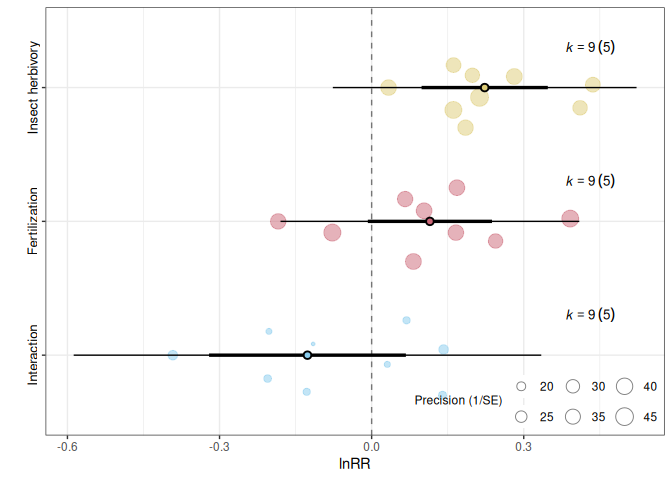
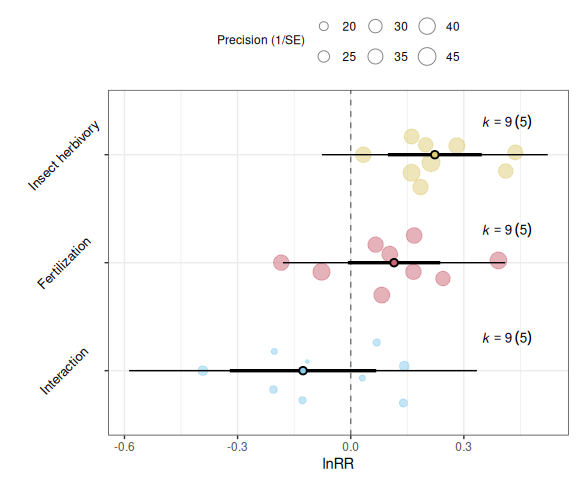
Build README

diff --git a/README.md b/README.md
@@ -176,7 +176,9 @@ The output from `factorial_mod_results` follows the format used by
 orchaRd::orchard_plot(
   res_table,
   group = "Study",
-  xlab = "lnRR"
+  xlab = "lnRR",
+  legend.pos = "top.out",
+  angle = 45
 )
 ```
 
